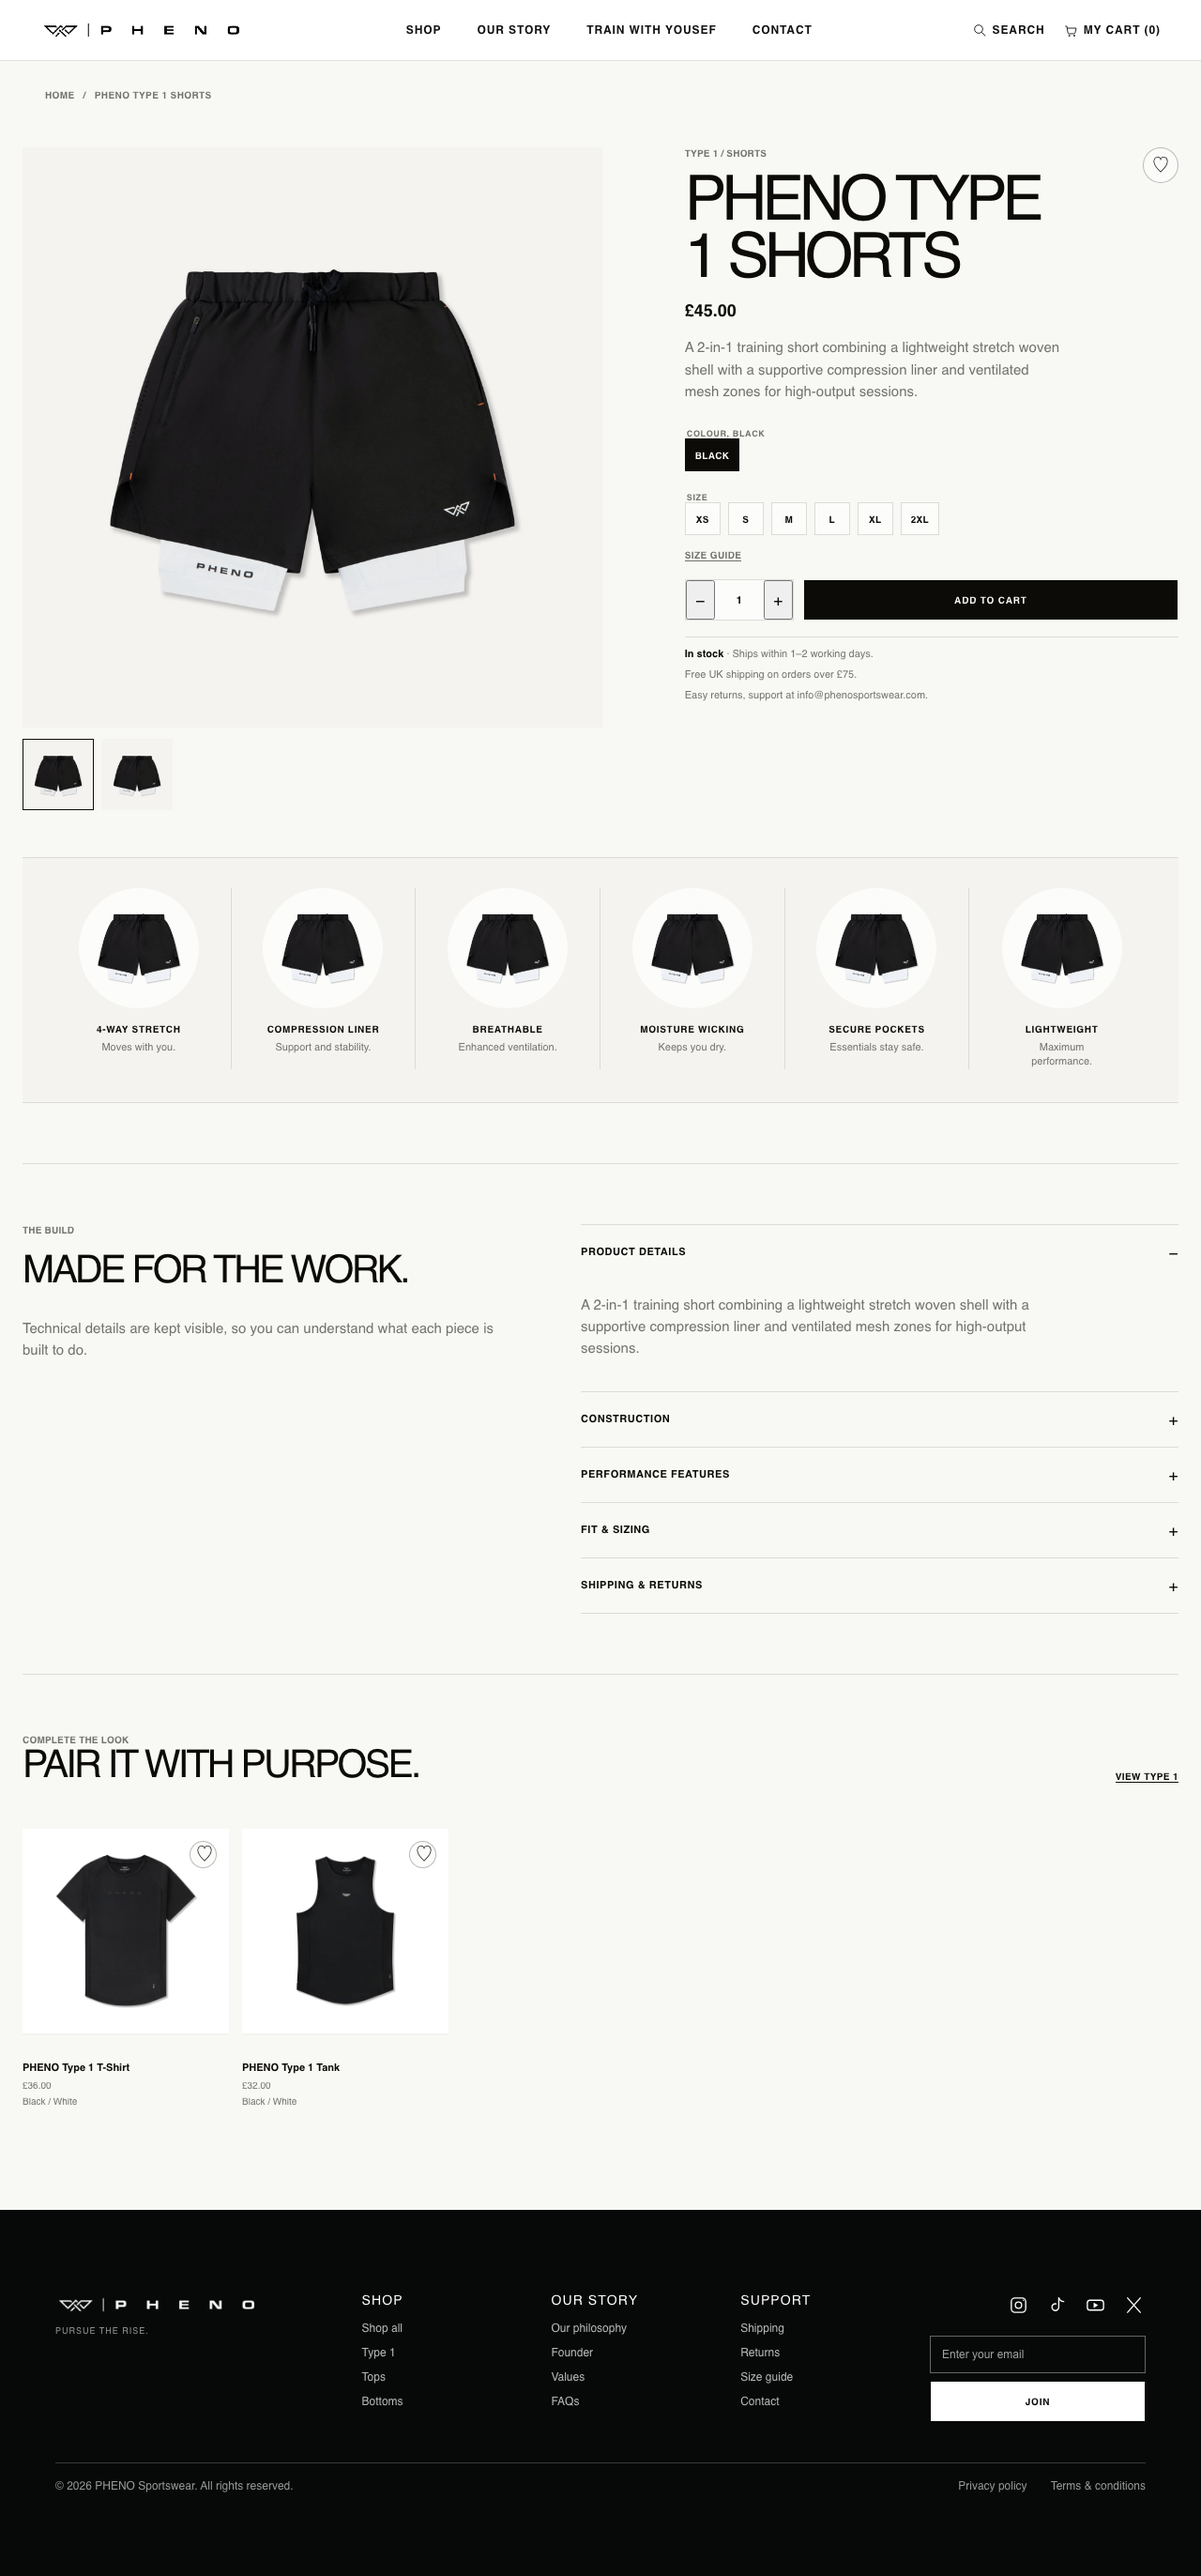
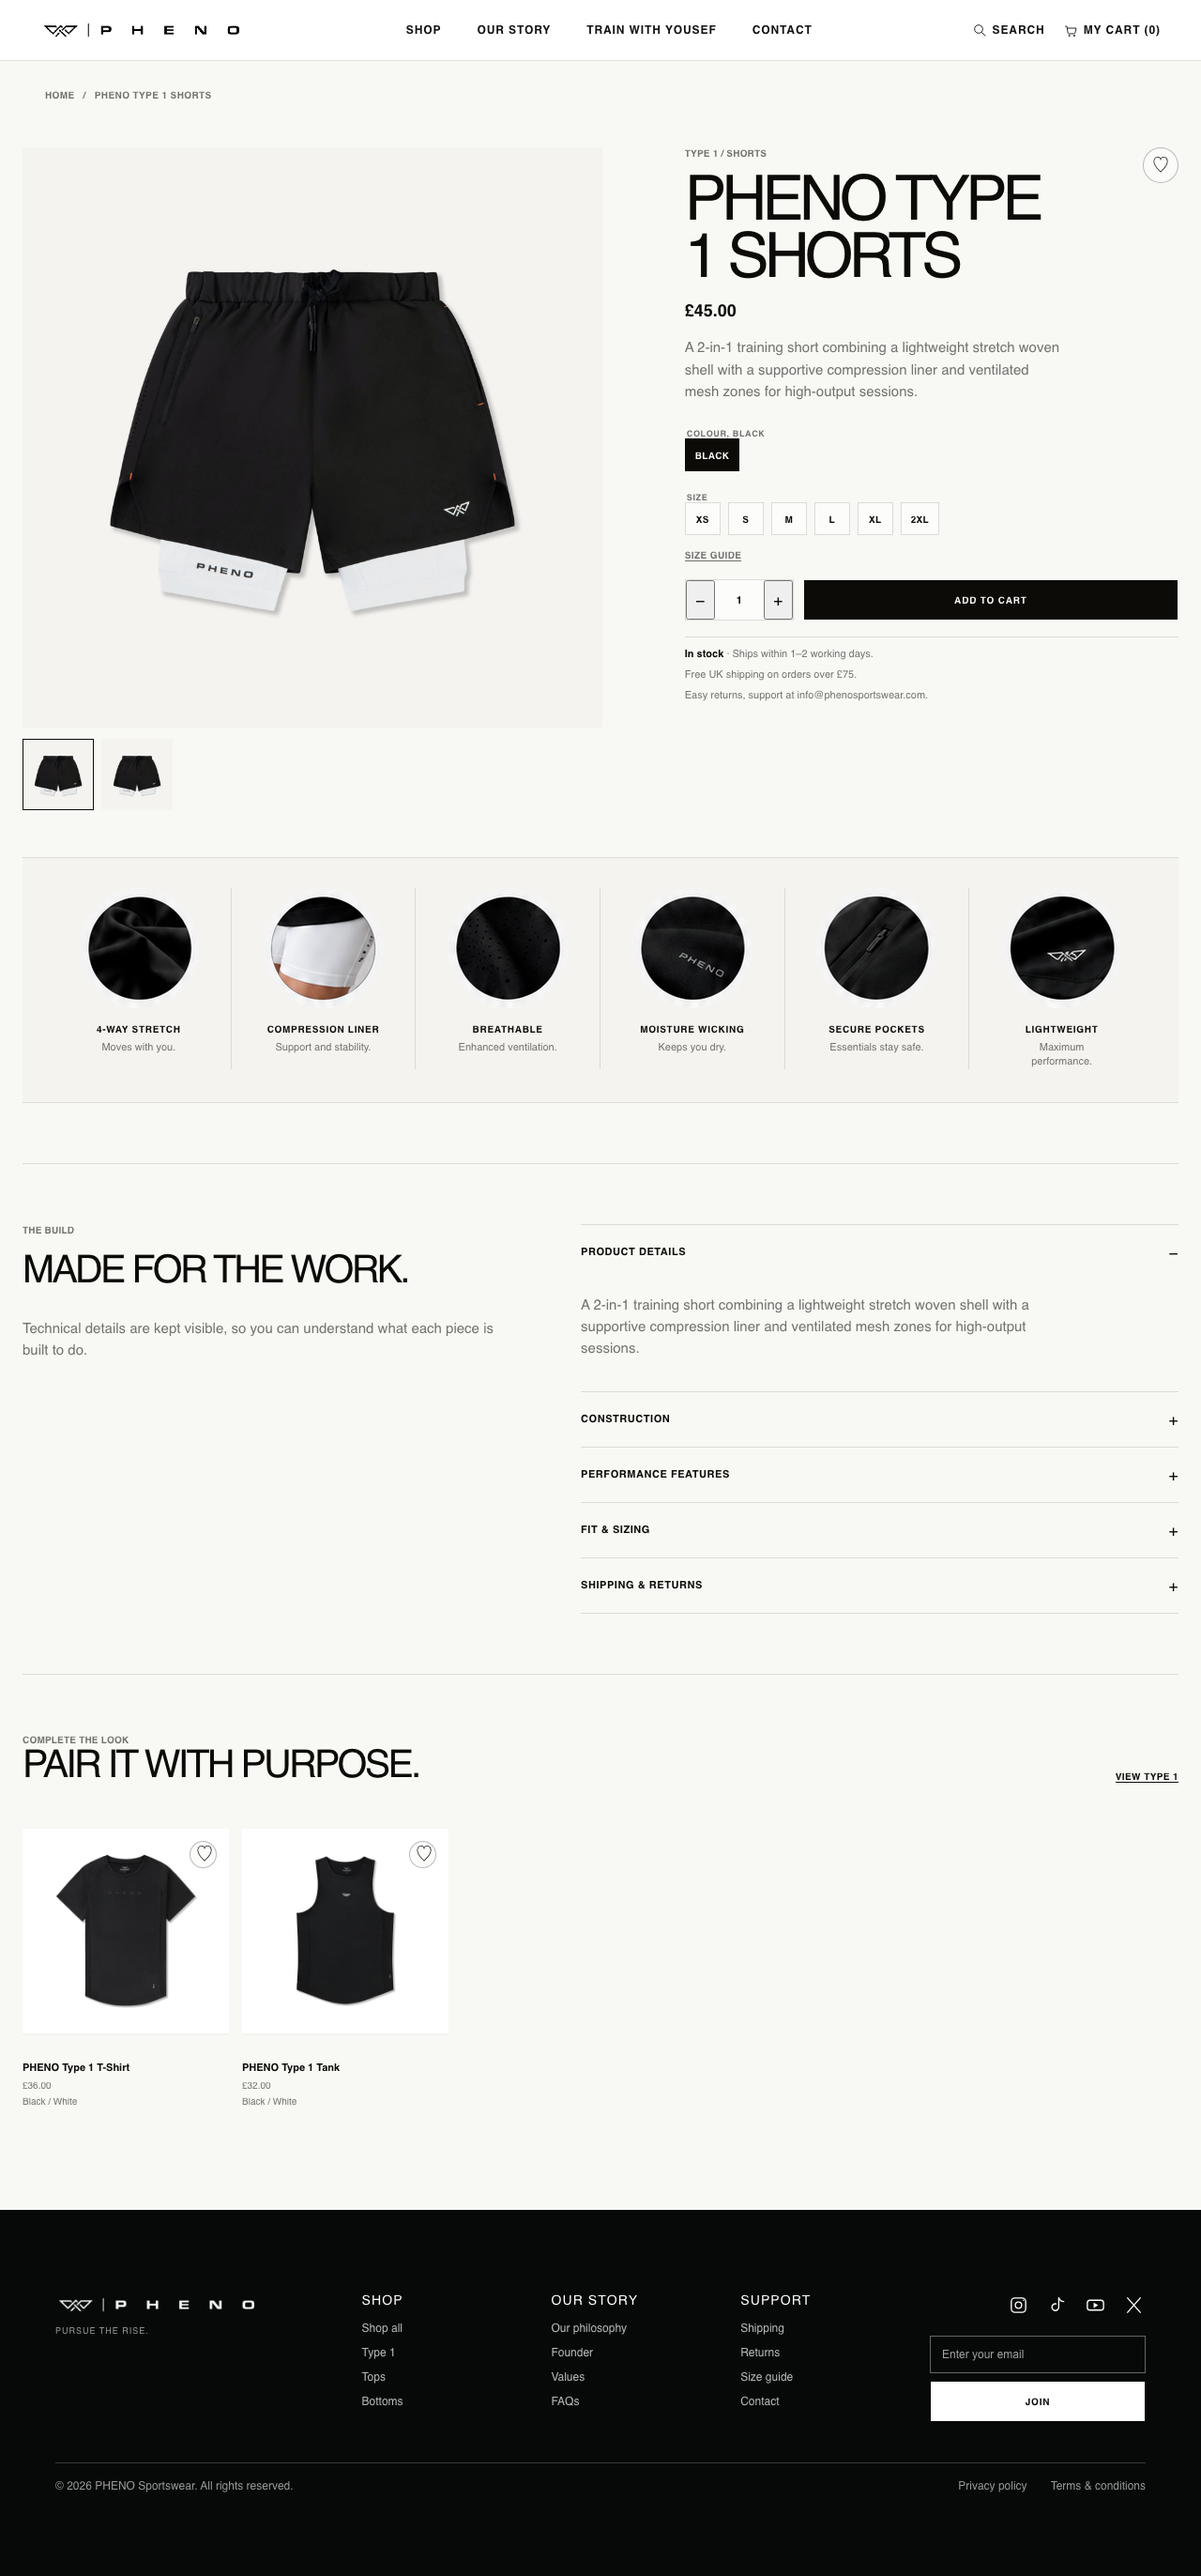
Use Shorts feature imagery from reference

diff --git a/src/data/products.ts b/src/data/products.ts
@@ -208,42 +208,42 @@ export const products: Product[] = [
         id: "stretch",
         title: "4-WAY STRETCH",
         description: "Moves with you.",
-        image: "/images/type-1-shorts.jpg",
+        image: "/images/type-1-shorts-features/stretch.png",
         imageAlt: "Black PHENO Type 1 Shorts stretch shell",
       },
       {
         id: "compression-liner",
         title: "COMPRESSION LINER",
         description: "Support and stability.",
-        image: "/images/type-1-shorts-detail.jpg",
+        image: "/images/type-1-shorts-features/compression-liner.png",
         imageAlt: "White integrated compression liner in PHENO Type 1 Shorts",
       },
       {
         id: "breathable",
         title: "BREATHABLE",
         description: "Enhanced ventilation.",
-        image: "/images/type-1-shorts-detail.jpg",
+        image: "/images/type-1-shorts-features/breathable.png",
         imageAlt: "Ventilation detail on black PHENO Type 1 Shorts",
       },
       {
         id: "moisture-wicking",
         title: "MOISTURE WICKING",
         description: "Keeps you dry.",
-        image: "/images/type-1-shorts.jpg",
+        image: "/images/type-1-shorts-features/moisture-wicking.png",
         imageAlt: "Technical outer material on PHENO Type 1 Shorts",
       },
       {
         id: "secure-pockets",
         title: "SECURE POCKETS",
         description: "Essentials stay safe.",
-        image: "/images/type-1-shorts-detail.jpg",
+        image: "/images/type-1-shorts-features/secure-pockets.png",
         imageAlt: "Zipped pocket detail on PHENO Type 1 Shorts",
       },
       {
         id: "lightweight",
         title: "LIGHTWEIGHT",
         description: "Maximum performance.",
-        image: "/images/type-1-shorts.jpg",
+        image: "/images/type-1-shorts-features/lightweight.png",
         imageAlt: "Lightweight shell of PHENO Type 1 Shorts",
       },
     ],
